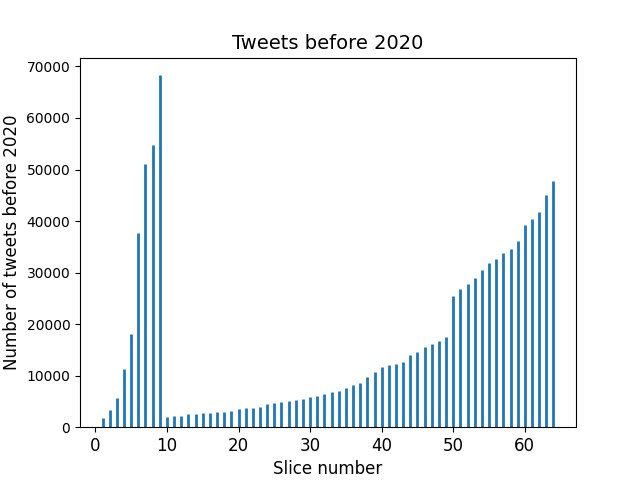
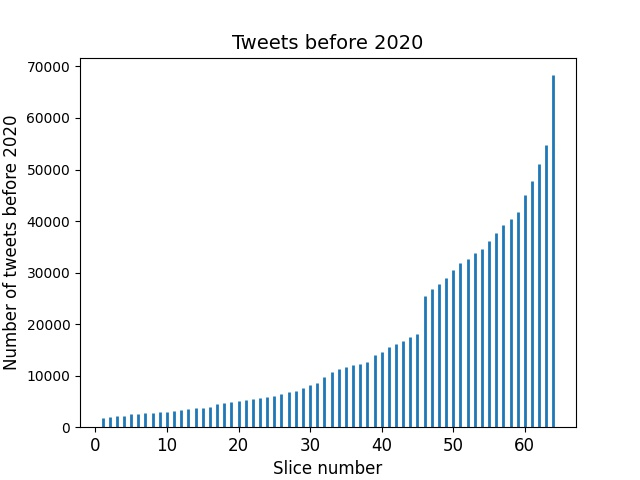
fixed bug in plot 2020

Changed region(s): [[0.1562, 0.1562, 0.875, 0.875]]

diff --git a/Scripts/parse_slices.py b/Scripts/parse_slices.py
@@ -80,41 +80,33 @@ class Slices:
 
     def plot_tweets_before_2020(self):
         tweets = []
-        for slice in self.slices:
-            tweets.append(0)
-        tweets.append(0)
-
+        slice_arange = []
         boundary = dt.datetime(2020,1,1)
         for slice in self.slices:
             nodes = self.slices[slice]['node_attributes']
             num_nodes = self.slices[slice]['num_nodes']
-            #print("Number of nodes in slice %s = %i" %(slice,num_nodes))
+            counter = 0
             for n in nodes:
                 date = dt.datetime.strptime((nodes[n]['date']),"%Y-%m-%dT%H:%M:%S.%f")
                 if date < boundary:
-                    tweets[int(slice)] += 1
-            #tweets[int(slice)]/=num_nodes
+                    counter += 1
+            tweets.append(counter/num_nodes)
+            slice_arange.append(int(slice))
 
-        tweets.pop(0)
-        #print(tweets)
+        slice_arange,tweets = zip(*sorted(zip(slice_arange,tweets)))
 
-        names = sorted([slice for slice in self.slices])
-        x_pos = [int(i) for i in names]
         zeros = [0 for i in range(len(tweets))]
 
-        plt.vlines(x = x_pos, ymin = zeros, ymax = tweets, lw = 2)
-        #for i in range(len(tweets)):
-        #    plt.text(x_pos[i],tweets[i],names[i])
+        plt.vlines(x = slice_arange, ymin = zeros, ymax = tweets, lw = 2)
         plt.ylim(ymin=0)
         plt.title("Tweets before 2020",fontsize = 14)
         plt.xlabel("Slice number", fontsize = 12)
-        #plt.ylabel("$\\frac{\mathrm{Number\,of\,tweets\,<\,2020}}{\mathrm{Total\,number\,of\,tweets\,in\,slice}}$", fontsize = 14)
-        plt.ylabel("Number of tweets before 2020", fontsize = 12)
+        plt.ylabel("$\\frac{\mathrm{Number\,of\,tweets\,<\,2020}}{\mathrm{Total\,number\,of\,tweets\,in\,slice}}$", fontsize = 14)
+        #plt.ylabel("Number of tweets before 2020", fontsize = 12)
         plt.xticks(fontsize=12)
         plt.yticks(fontsize=10)
-        plt.savefig("./experiment6/plots/num_tweets_before_2020/bins.jpg")
+        plt.savefig("./experiment6/plots/num_tweets_before_2020/normalized_bins.jpg")
         plt.clf()
-
 
 
 
